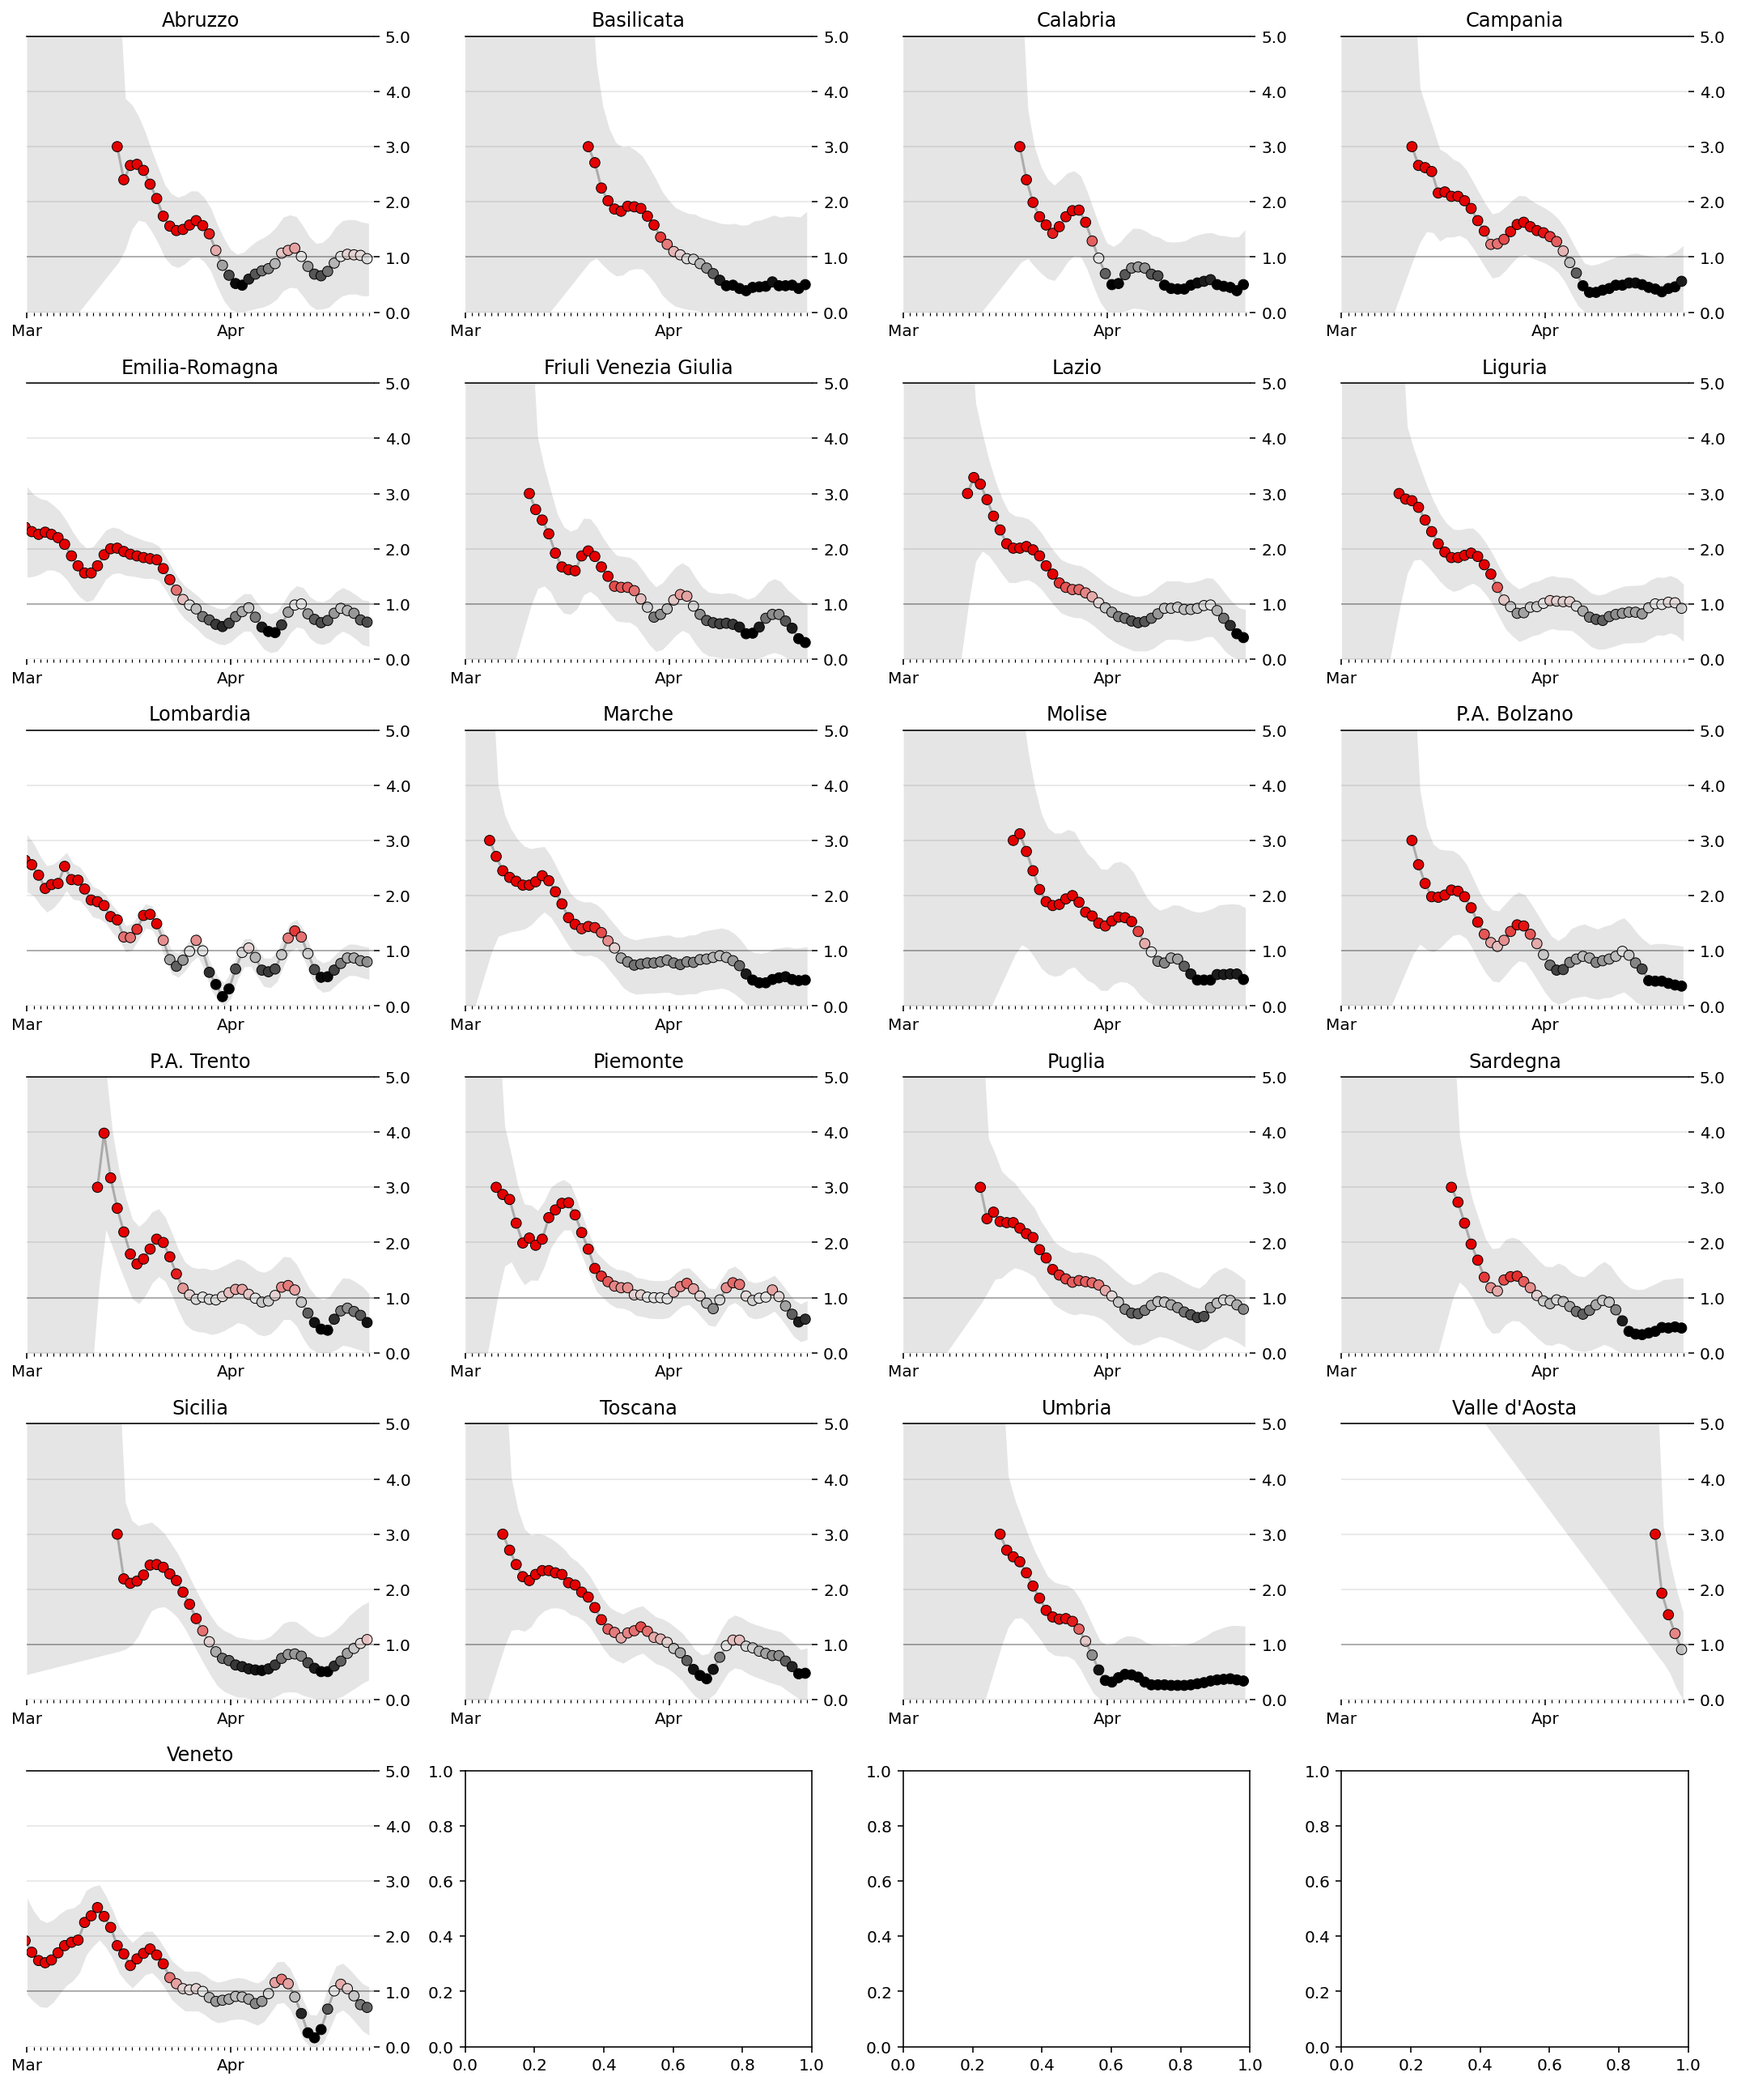
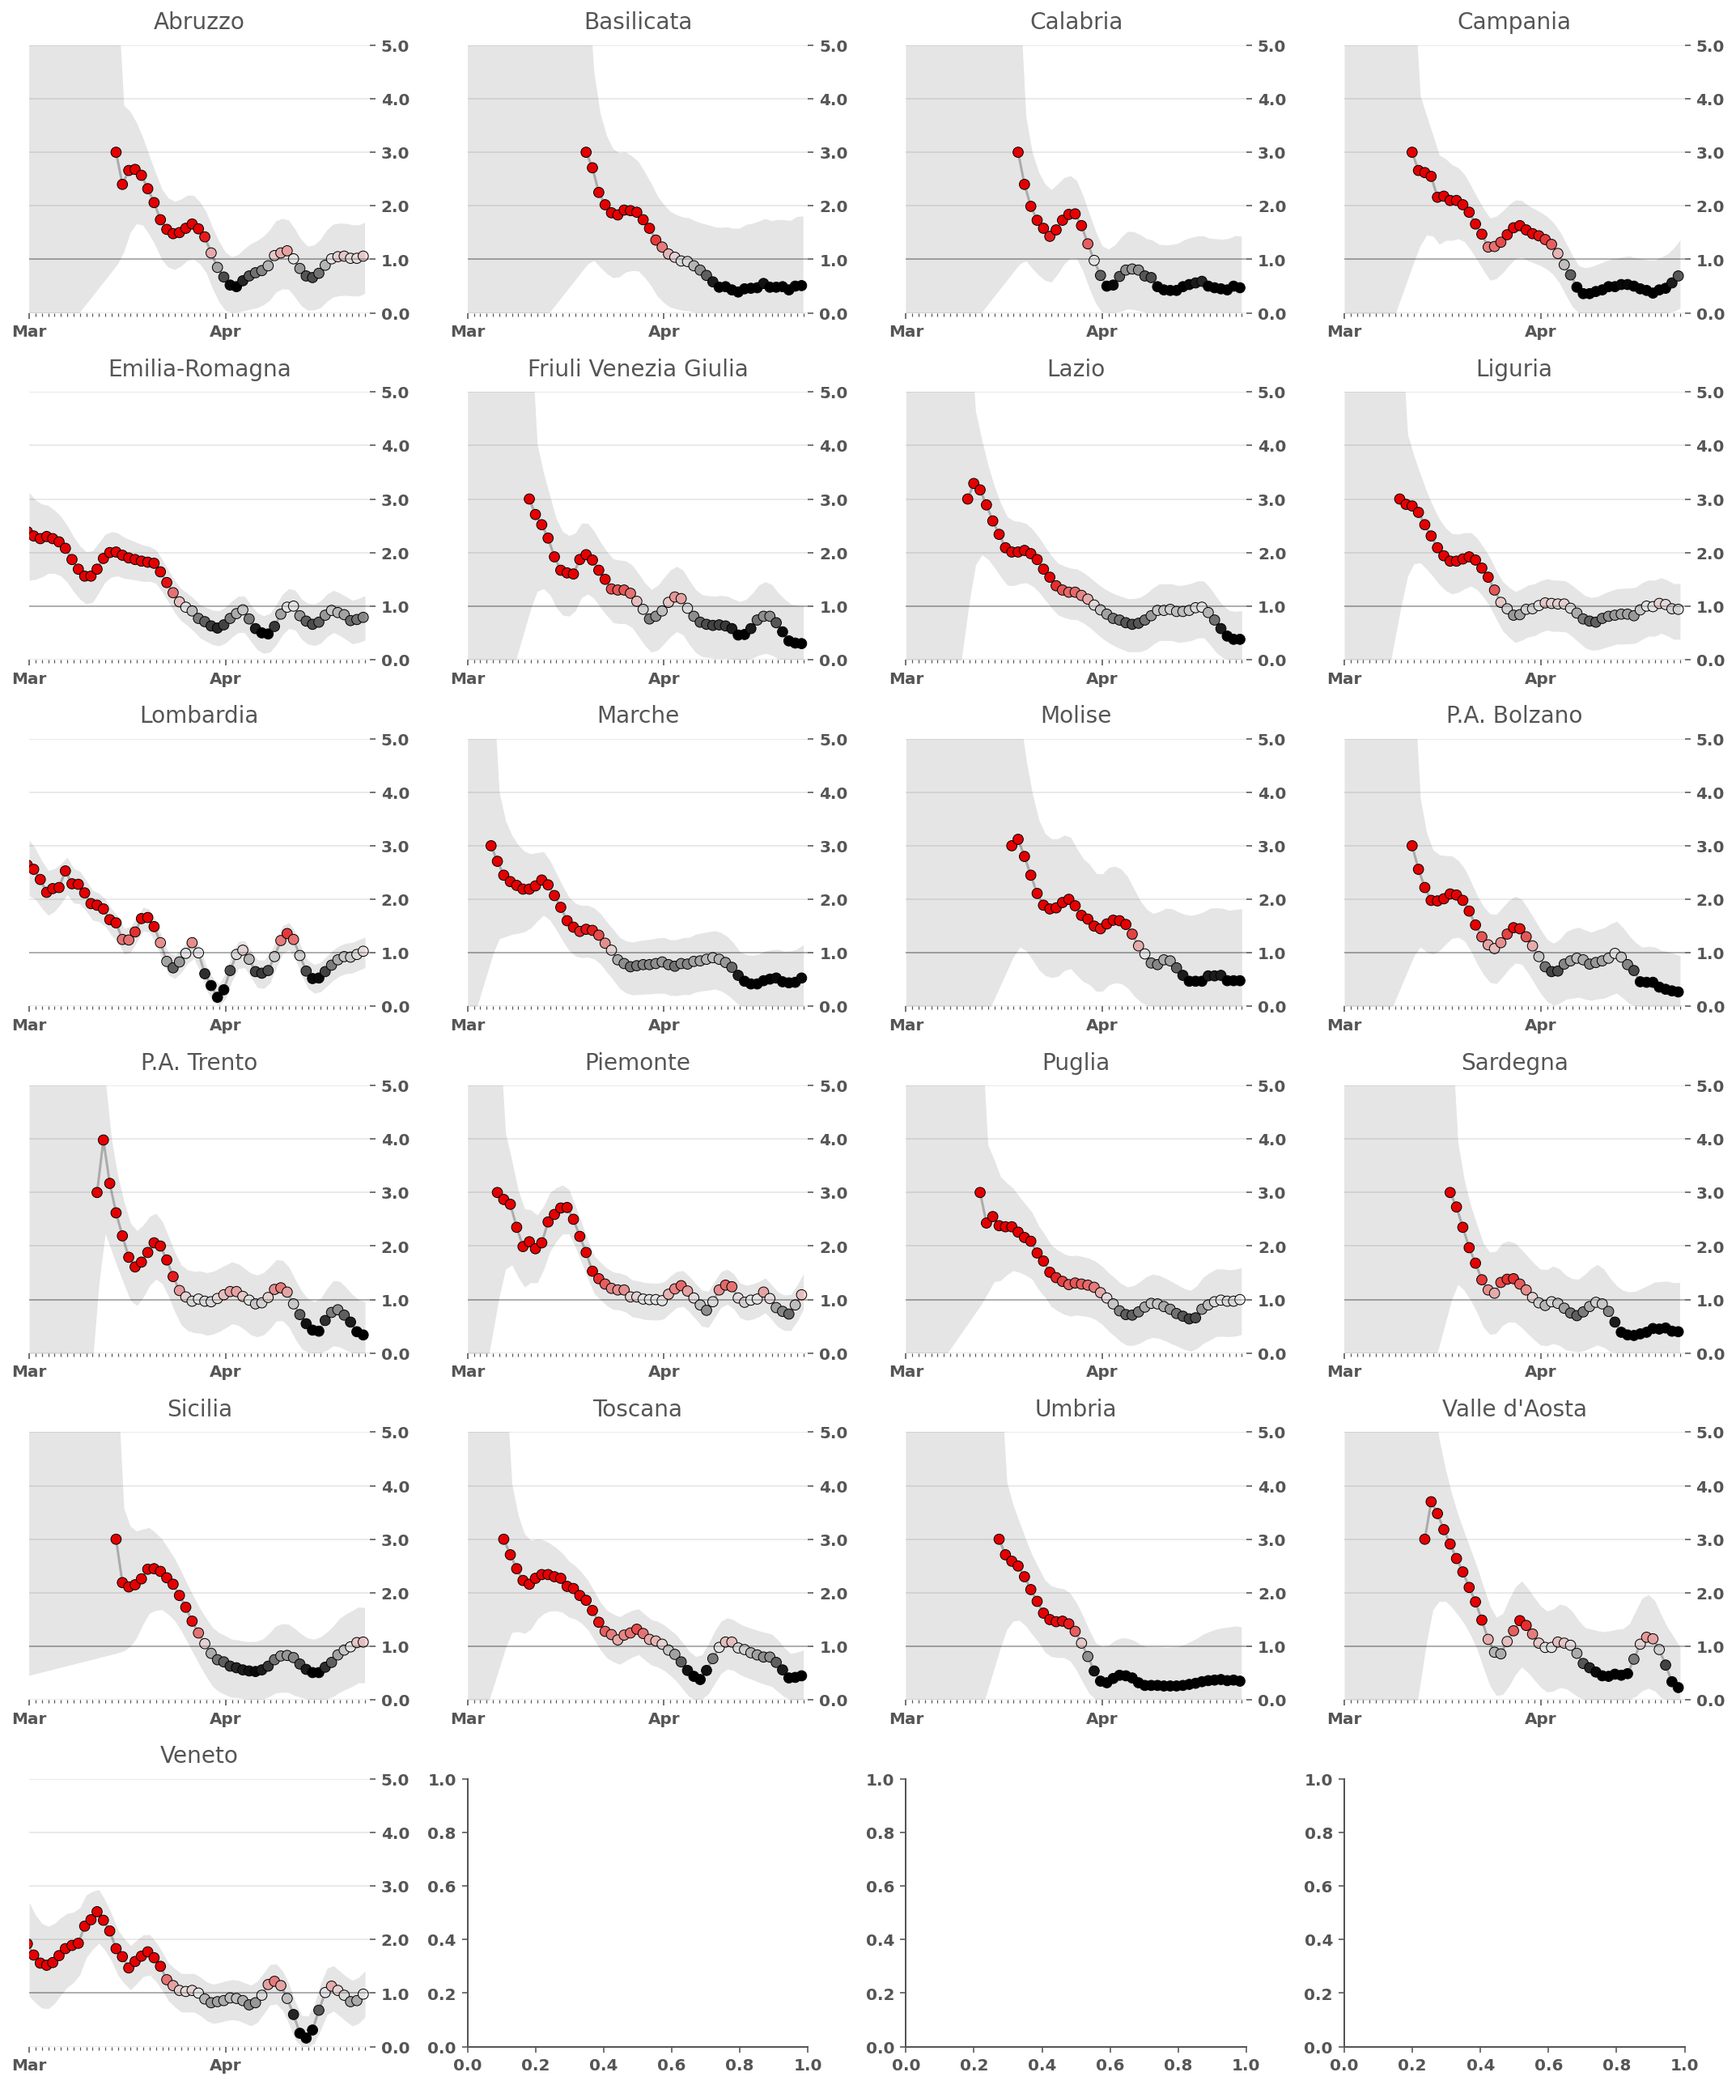
Update R0 analysis 2020-04-22

diff --git a/RealtimeR0_Italy/RealtimeR0_Italy.py b/RealtimeR0_Italy/RealtimeR0_Italy.py
@@ -7,13 +7,14 @@ from matplotlib import dates as mdates
 from matplotlib import ticker
 from matplotlib.colors import ListedColormap
 from matplotlib.patches import Patch
+import matplotlib.font_manager
 
 from scipy import stats as sps
 from scipy.interpolate import interp1d
 
 from IPython.display import clear_output
 from IPython.display import set_matplotlib_formats
-set_matplotlib_formats('retina')
+#set_matplotlib_formats('retina')
 #get_ipython().run_line_magic('config', "InlineBackend.figure_format = 'retina'")
 
 # Evaluating the Likelihood Function
@@ -159,6 +160,7 @@ ax = smoothed.plot(label='Smoothed',
 ax.get_figure().set_facecolor('w')
 path = 'smoothed_{}.png'.format(state_name)
 plt.savefig(path)
+plt.close()
 
 
 # ### Running the Algorithm
@@ -313,6 +315,7 @@ ax.xaxis.set_major_locator(mdates.WeekdayLocator())
 ax.xaxis.set_major_formatter(mdates.DateFormatter('%b %d'))
 path1 = 'rt_{}.png'.format(state_name)
 plt.savefig(path1)
+plt.close()
 
 #Choosing the optimal $\sigma$
 #
@@ -412,6 +415,8 @@ for i, (state_name, result) in enumerate(final_results.groupby('denominazione_re
 
 fig.tight_layout()
 fig.set_facecolor('w')
+fig.savefig('rt_regions.png')
+plt.close()
 
 
 #Export Data to CSV
@@ -473,21 +478,26 @@ def plot_standings(mr, figsize=None, title='Most Recent $R_t$ by State'):
     return fig, ax
 
 mr.sort_values('ML', inplace=True)
-plot_standings(mr);
+plot_standings(mr)
 plt.savefig('rt_italy.png')
+plt.close()
 
 mr.sort_values('High_90', inplace=True)
-plot_standings(mr);
+plot_standings(mr)
 plt.savefig('rt_italy_sorted.png')
-
+plt.close()
 
 show = mr[mr.High_90.le(1)].sort_values('ML')
-fig, ax = plot_standings(show, title='Likely Under Control');
+fig, ax = plot_standings(show, title='Likely Under Control')
+
 plt.savefig('likely_under_control_italy.png')
+plt.close()
 
 show = mr[mr.Low_90.ge(1.0)].sort_values('Low_90')
-fig, ax = plot_standings(show, title='Likely Not Under Control');
+fig, ax = plot_standings(show, title='Likely Not Under Control')
 ax.get_legend().remove()
+
 plt.savefig('likelynot_under_control_italy.png')
+plt.close()
 
 
